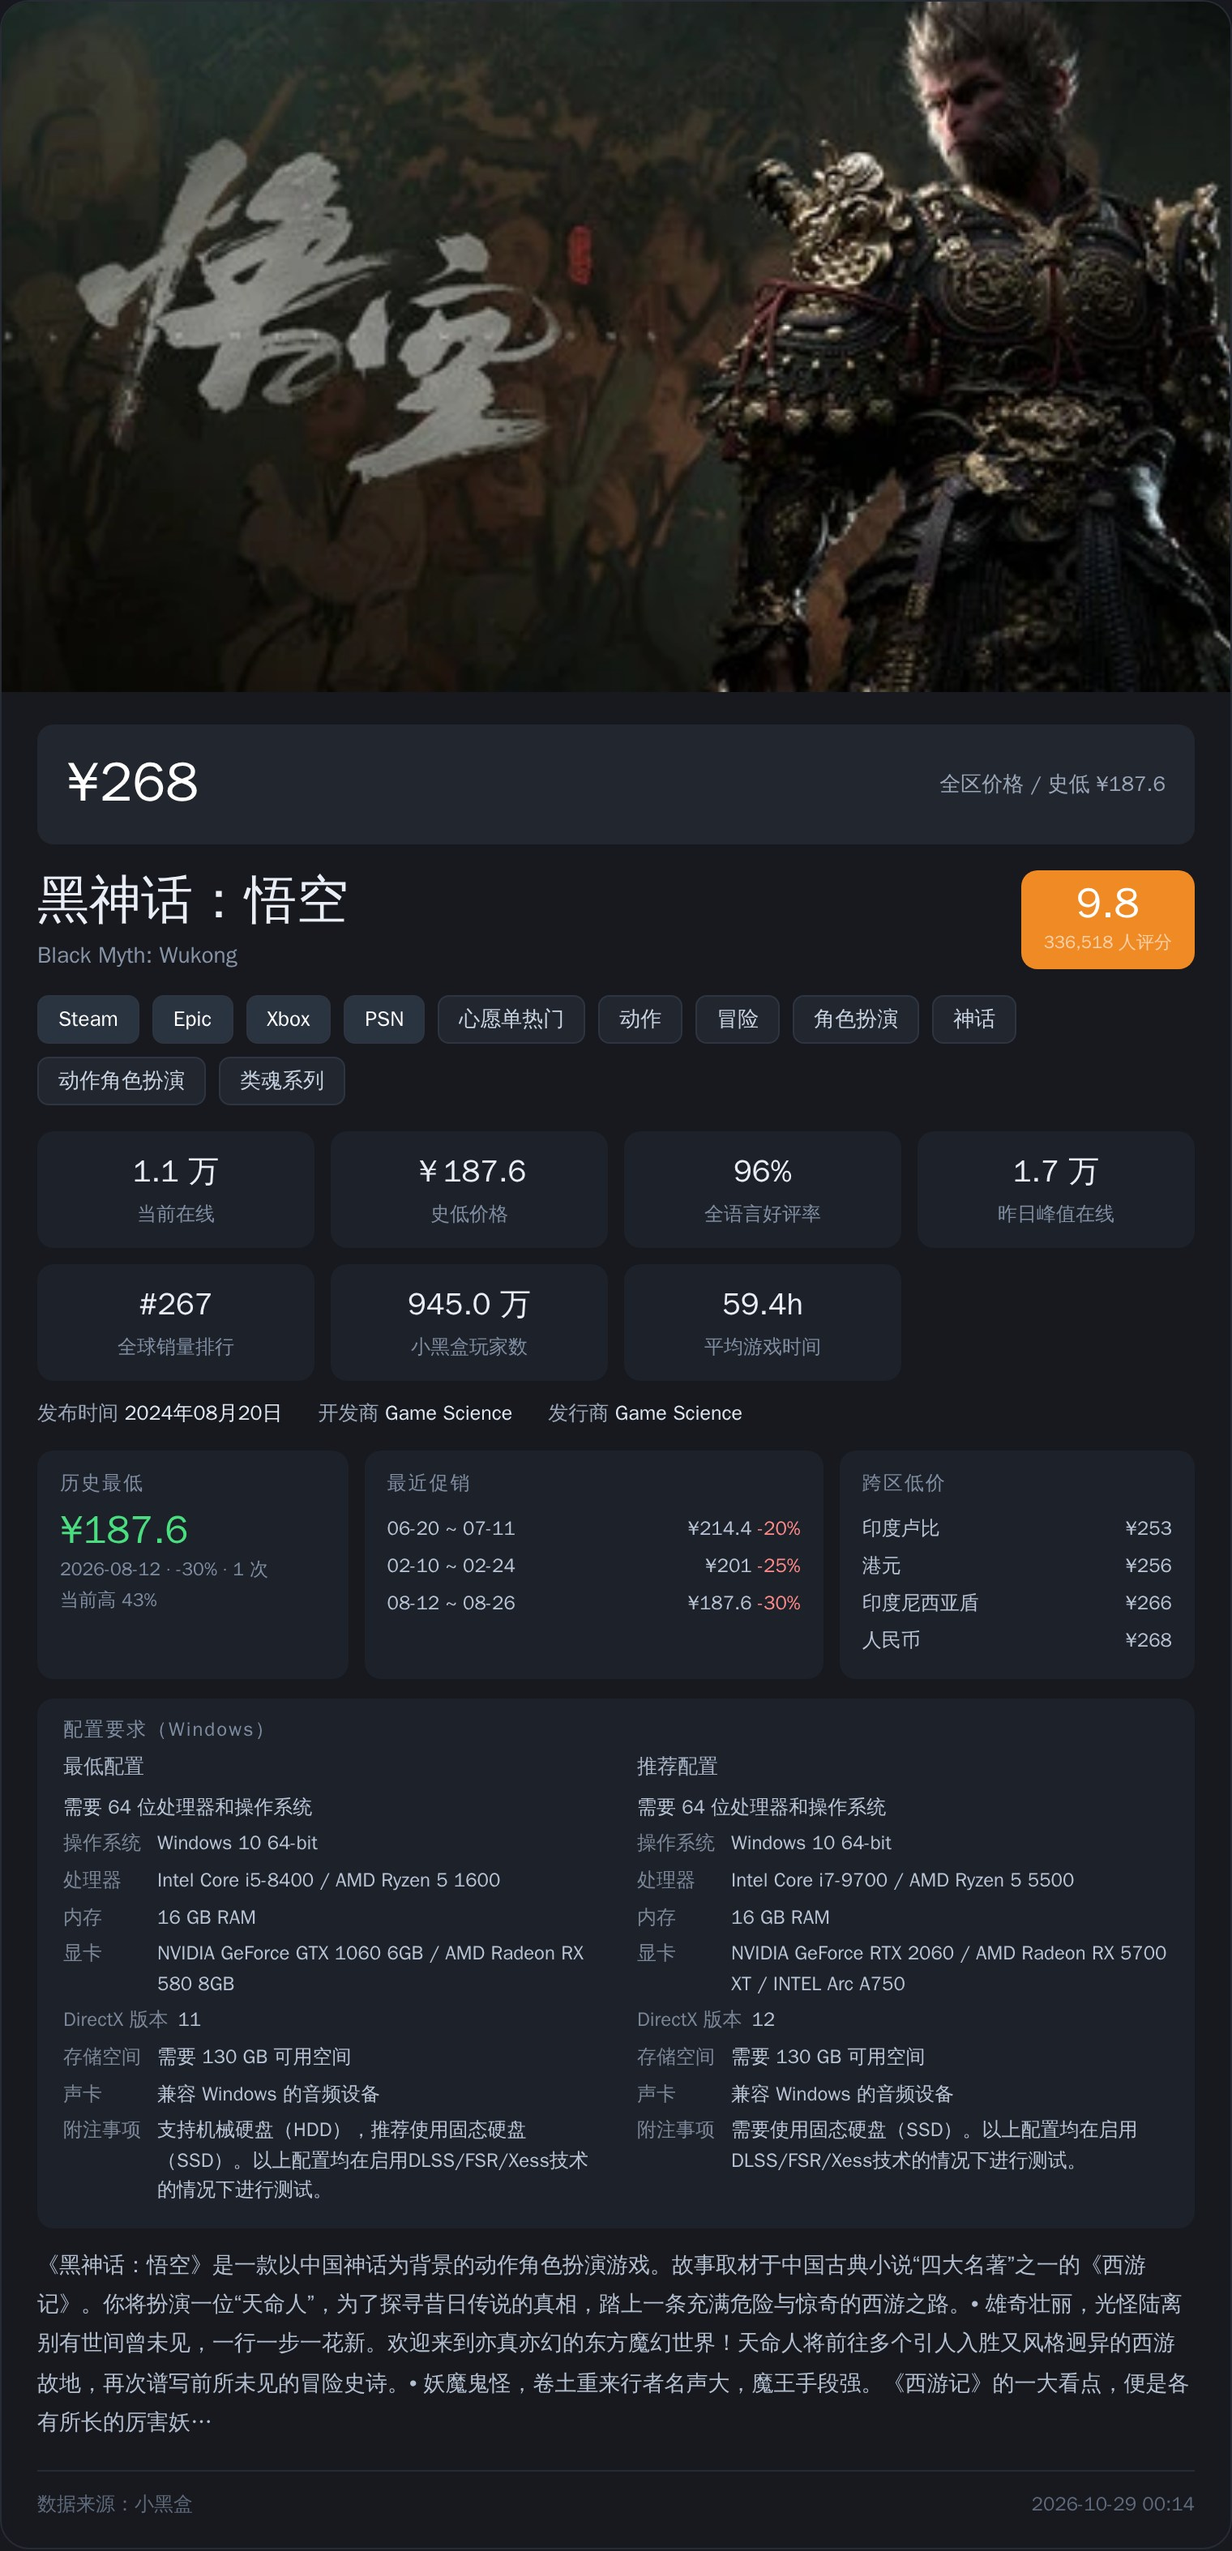
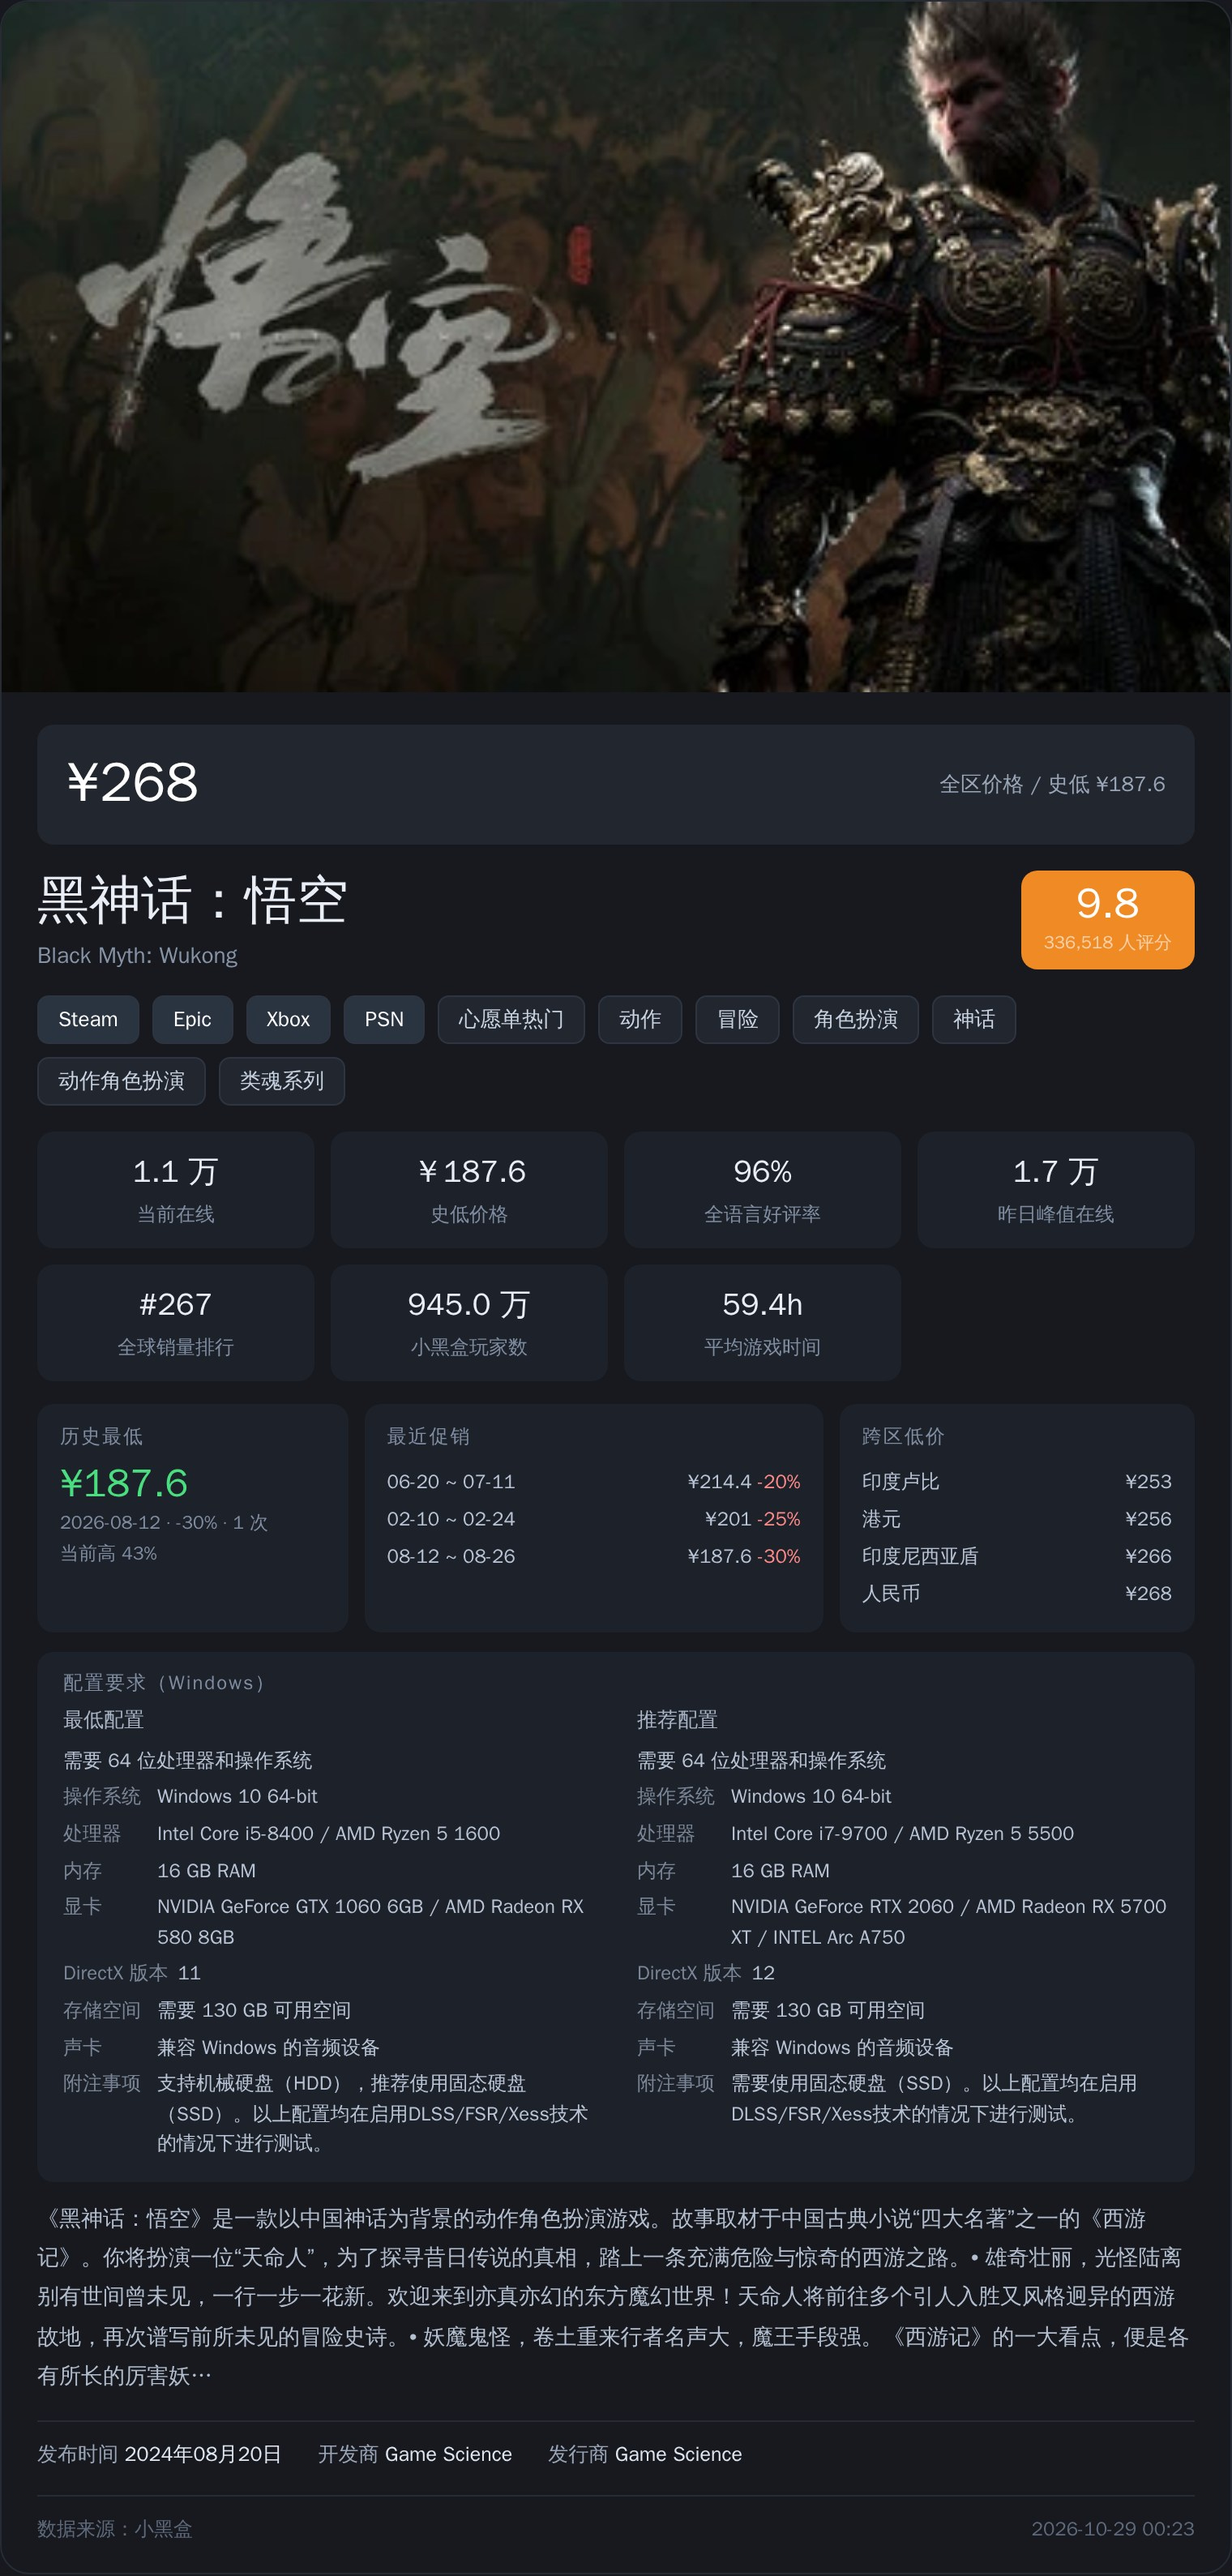
style: ???????????????????

diff --git a/core/card.py b/core/card.py
@@ -52,15 +52,19 @@ class CardData:
     lowest_count: int = 0
 
 
-def _fmt_wan(value: Any) -> str:
+def _fmt_wan(value: Any, unit: str = "") -> str:
+    """在线人数：接口有时给 "1.5"（单位万），有时给 "9376"（原始人数）。"""
     text = str(value or "").strip()
-    if not text:
-        return "-"
-    if text in ("-", "N/A"):
+    if not text or text in ("-", "N/A"):
         return "-"
     if not text.replace(".", "", 1).isdigit():
         return text
-    return f"{text} 万"
+    if unit:
+        return f"{text} {unit}"
+    number = float(text)
+    if number >= 10000:
+        return f"{number / 10000:.1f} 万"
+    return f"{int(number)}" if number.is_integer() else text
 
 
 def _date_from_epoch(value: Any) -> str:
@@ -180,7 +184,14 @@ def build_card(
         if not value or value in ("-", "N/A", ""):
             continue
         if label in ("当前在线", "昨日峰值在线", "小黑盒玩家数"):
-            value = _fmt_wan(value)
+            unit = ""
+            rich = item.get("hb_rich_text") or {}
+            for attr in (rich.get("attrs") or []):
+                piece = str(attr.get("text") or "").strip()
+                if piece in ("万", "亿"):
+                    unit = piece
+                    break
+            value = _fmt_wan(value, unit)
         card.stats.append(StatCell(label=label, value=value))
     card.stats = card.stats[:8]
 
@@ -276,7 +287,8 @@ body { background:transparent; font-family:'WenQuanYi Zen Hei','Noto Sans CJK SC
 .cell { background:#1d2129; border-radius:10px; padding:12px 10px; text-align:center; }
 .cell .v { font-size:19px; font-weight:700; color:#e9eef6; }
 .cell .l { font-size:12px; color:#7f8da2; margin-top:5px; }
-.meta { margin-top:12px; display:flex; flex-wrap:wrap; gap:6px 22px; font-size:12.5px; color:#9aa6b8; }
+.meta { margin-top:14px; padding-top:12px; border-top:1px solid #262b34;
+         display:flex; flex-wrap:wrap; gap:6px 22px; font-size:12.5px; color:#9aa6b8; }
 .meta b { color:#dfe7f2; font-weight:600; }
 .pricegrid { display:grid; grid-template-columns:1.05fr 1.55fr 1.2fr; gap:10px; margin-top:14px; }
 .pcol { background:#1d2129; border-radius:10px; padding:12px 14px; }
@@ -407,10 +419,10 @@ def render_html(card: CardData) -> str:
     </div>
     <div class="chips">{chips}</div>
     <div class="grid">{cells}</div>
-    {meta_html}
     {price_section}
     {req_html}
     {intro_html}
+    {meta_html}
     <div class="footer"><span>数据来源：小黑盒</span><span>{time.strftime('%Y-%m-%d %H:%M')}</span></div>
   </div>
 </div></body></html>"""
